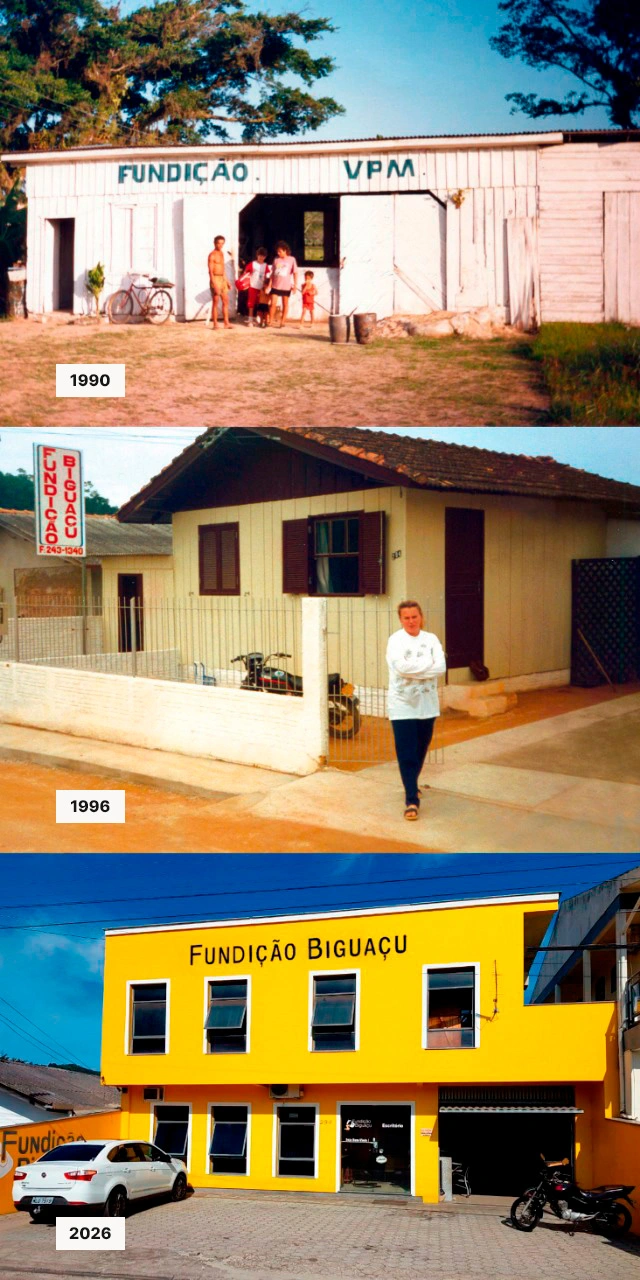
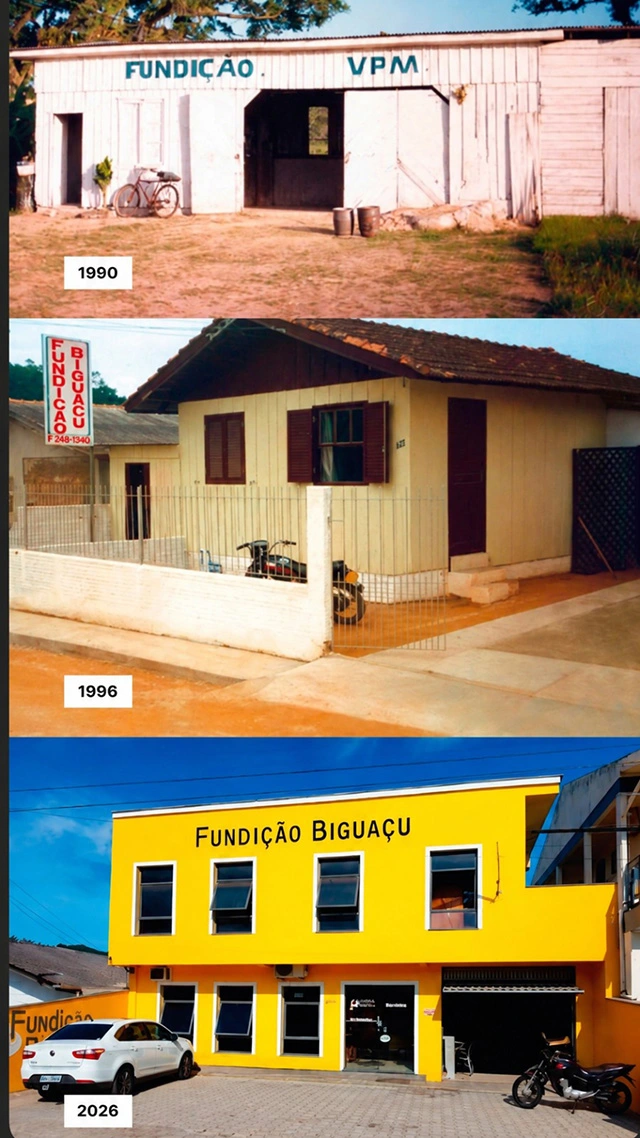
Alteração Imagens Marina 01

diff --git a/produtos-para-tumulos/index.html b/produtos-para-tumulos/index.html
@@ -643,7 +643,7 @@
       <article class="produto-b2c-card">
         <div class="produto-b2c-card__image">
           <img
-            src="img/produtos/IMG_3421.webp
+            src="img/produtos/IMG_3421.webp"
             alt="Molduras para fotos em porcelana"
             loading="lazy"
           >
@@ -1635,7 +1635,7 @@
       <div class="featured-product-image letters-featured-image">
 
         <img
-          src="img/produtos/IMG_3421.webp"
+          src="img/produtos/Letras-de-Metal.webp"
           alt="Letras de metal personalizadas para túmulos e lápides"
           loading="lazy"
         >
